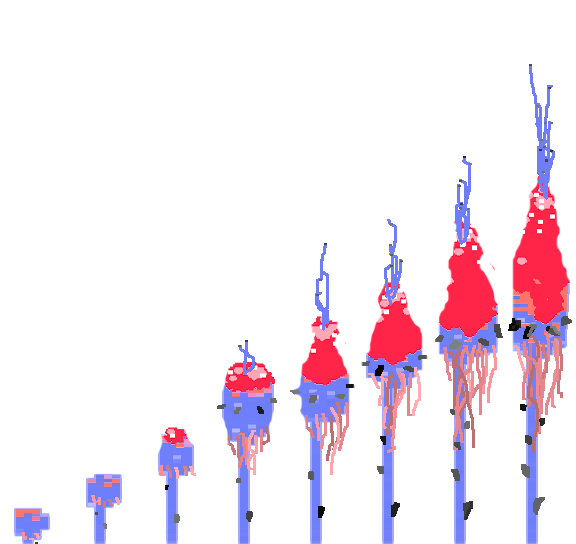
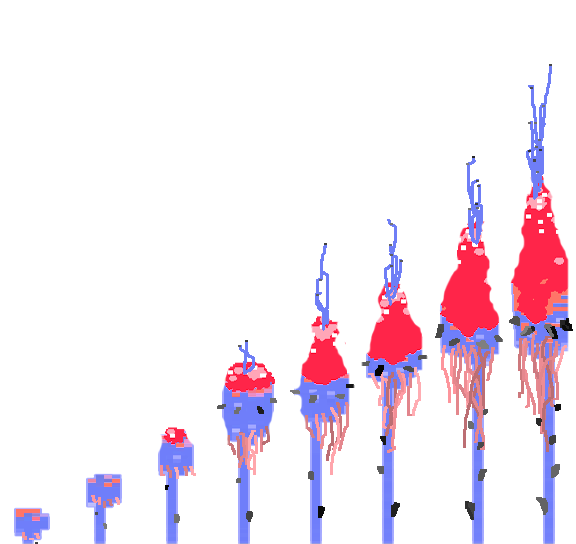
Asset change tree and vineball

Changed region(s): [[0.75, 0.125, 1.0, 1.0]]

diff --git a/js/main.js b/js/main.js
@@ -6,7 +6,7 @@ var seeds = [];
 var vineballs = [];
 var anchor;
 
-var vineballCount = 6;
+var vineballCount = 66;
 
 var maxSeedCount = 4;
 
